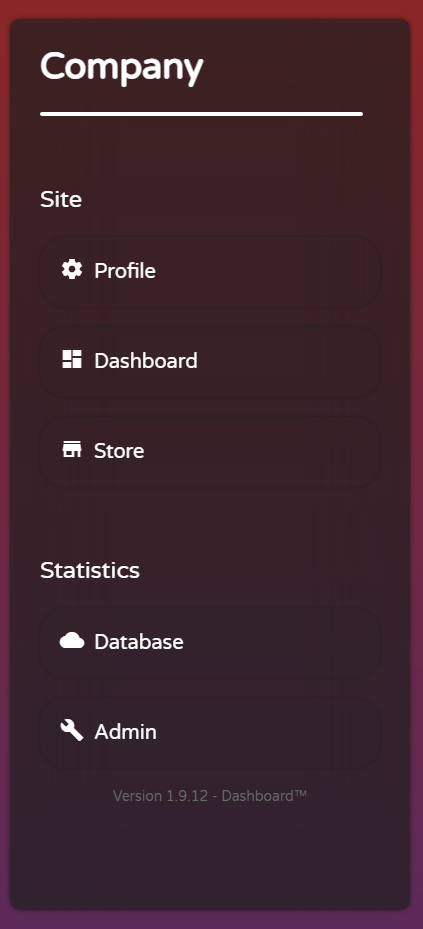
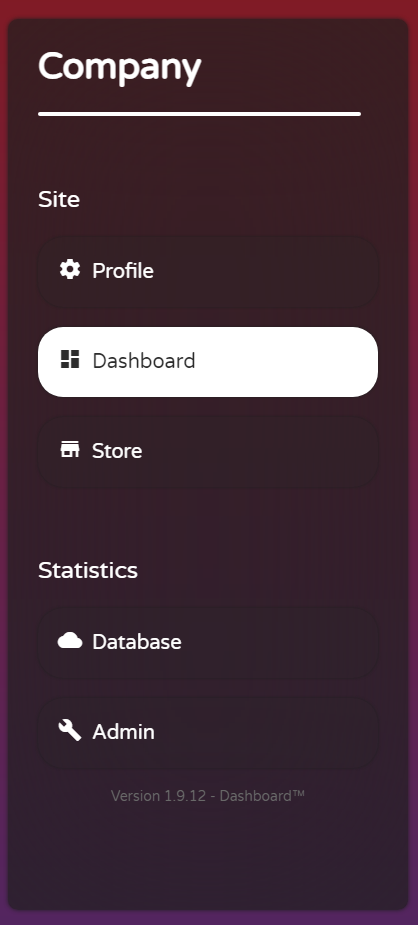
Updated Pic. Changed shown links. Fixed opacity issues.

diff --git a/index.html b/index.html
@@ -18,11 +18,11 @@
                     <div class='barrier'></div>
                     <h3>Site</h3>
                     <a class='nav_link_a' href='index.html'><i class='material-icons'>settings</i>Profile</a>
-                    <a class='nav_link_a' href='index.html'><i class='material-icons'>dashboard</i>Dashboard</a>
-                    <a class='nav_link_a' href='index.html'><i class='material-icons'>store</i>Store</a>
+                    <a class='nav_link_a' href=''><i class='material-icons'>dashboard</i>Dashboard</a>
+                    <a class='nav_link_a' href=''><i class='material-icons'>store</i>Store</a>
                     <h3>Statistics</h3>
-                    <a class='nav_link_a' href='index.html'><i class='material-icons'>cloud</i>Database</a>
-                    <a class='nav_link_a' href='index.html'><i class='material-icons'>build</i>Admin</a>
+                    <a class='nav_link_a' href=''><i class='material-icons'>cloud</i>Database</a>
+                    <a class='nav_link_a' href=''><i class='material-icons'>build</i>Admin</a>
                     <p id='copy_info'>Version 1.9.12 - Dashboard&trade;</p>
                 </div>
             </div>

diff --git a/styles.css b/styles.css
@@ -7,7 +7,7 @@ html {
     color: white;
     margin: 0;
     padding: 0;
-    background: linear-gradient(to bottom, #8b2626, #2f2e8f);
+    background: linear-gradient(to bottom, #8b1919, #2f2e8f);
     font-family: 'Varela Round', sans-serif;
     overflow-x: hidden;
 }
@@ -43,7 +43,7 @@ body {
     border-bottom-right-radius: 10px;
     position: relative;
     top: 0;
-    backdrop-filter: blur(50px);
+    backdrop-filter: blur(100px);
 }
 
 #menu_content {
@@ -51,6 +51,7 @@ body {
     padding: 1px 30px;
     font-weight: 100;
     font-size: 20px;
+    z-index: 10;
 }
 
 .barrier {
@@ -80,7 +81,7 @@ body {
     text-decoration: none;
     width: 300px;
     height: 70px;
-    background-color: rgba(44, 44, 44, .1);
+    background-color: rgba(44, 44, 44, .2);
     backdrop-filter: blur(10px);
     margin: 20px 0;
     border-radius: 25px;
